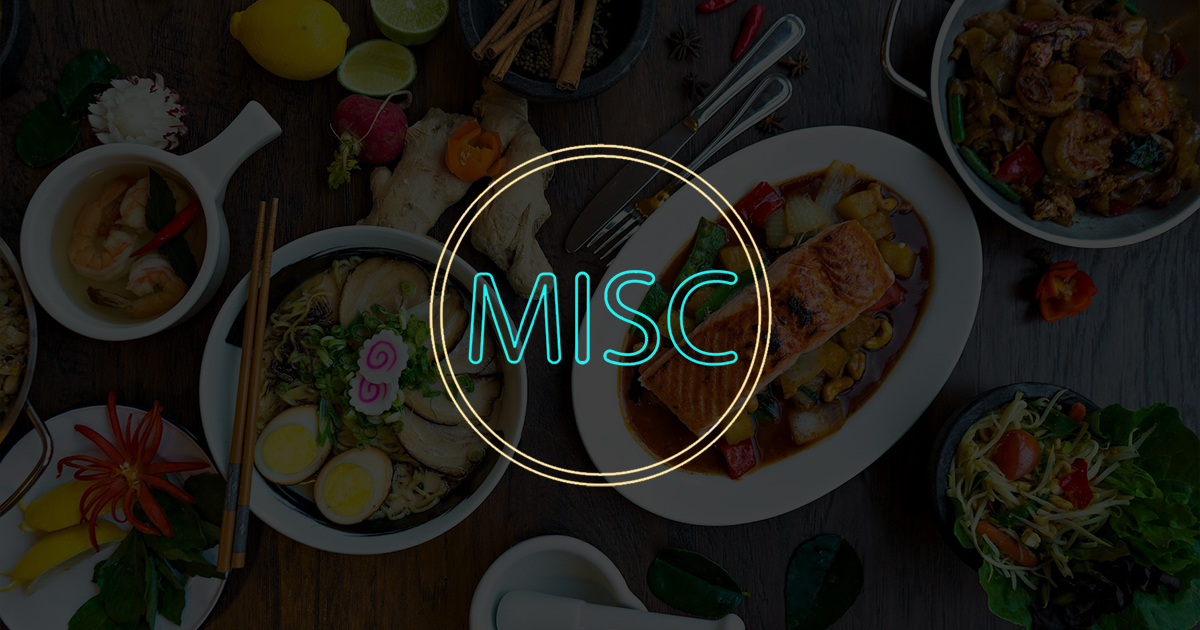
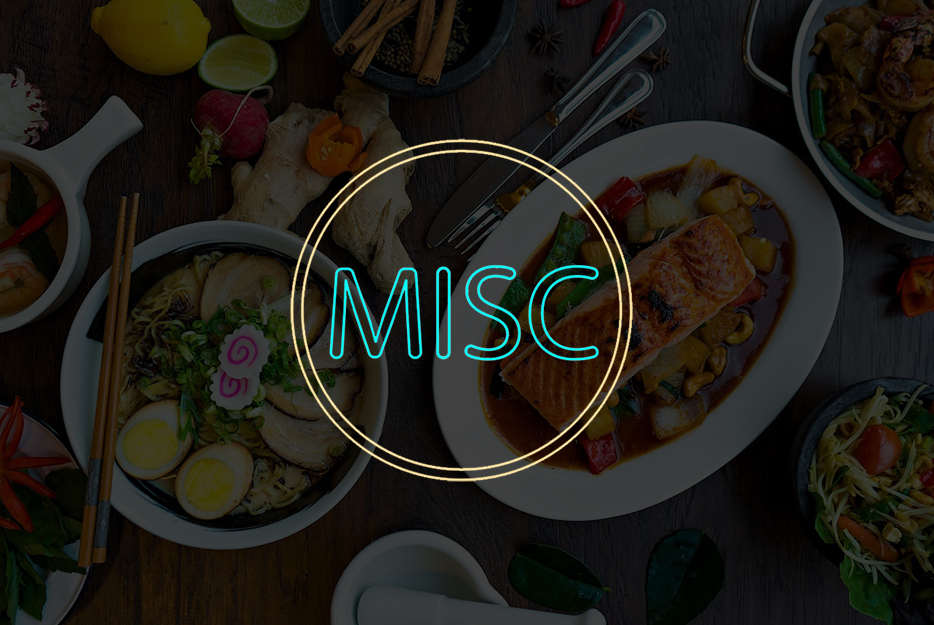
updated pagecards header

diff --git a/src/components/PageCards/GraphicDesignPageCards.js b/src/components/PageCards/GraphicDesignPageCards.js
@@ -15,6 +15,7 @@ import graphicTwo from "../../images/PagecardImages/graphicTwo.webp";
 import graphicThree from "../../images/PagecardImages/graphicThree.webp";
 import graphicFour from "../../images/PagecardImages/graphicFour.webp";
 import graphicFive from "../../images/PagecardImages/graphicFive.webp";
+import graphicSix from "../../images/PagecardImages/graphicSix.png";
 
 function GraphicDesignPageCards() {
   return (
@@ -22,8 +23,9 @@ function GraphicDesignPageCards() {
       <Box marginLeft={1}>
         <Box
           sx={{
-            background: "#0D4114",
-            color: "white",
+            background: `url(${graphicSix})`,
+            backgroundSize: "cover",
+            color: "primary",
             height: "200px",
             width: "95vw",
             borderRadius: "10px",
@@ -38,10 +40,11 @@ function GraphicDesignPageCards() {
             variant="h4"
             paddingTop={3}
             fontFamily={"Nunito"}
+            fontWeight="bold"
           >
             Graphics & Design
           </Typography>
-          <Typography align="center" fontFamily={"Nunito"}>
+          <Typography align="center" fontFamily={"Nunito"} fontWeight="bold">
             Design to make you standout
             <br />
             <br />
@@ -195,6 +198,7 @@ function GraphicDesignPageCards() {
               sx={{
                 background: `url(${graphicThree})`,
                 backgroundSize: "cover",
+
                 width: 300,
                 height: 200,
               }}

diff --git a/src/components/PageCards/WritingAndTranslationPageCards.js b/src/components/PageCards/WritingAndTranslationPageCards.js
@@ -12,14 +12,16 @@ import FilterIcon from "@mui/icons-material/Filter";
 import writingOne from "../../images/PagecardImages/writingOne.webp";
 import writingTwo from "../../images/PagecardImages/writingTwo.webp";
 import writingThree from "../../images/PagecardImages/writingThree.webp";
+import writingFour from "../../images/PagecardImages/writingFour.png";
 
 function PageCards() {
   return (
     <Box marginLeft={1}>
       <Box
         sx={{
-          background: "#530326",
-          color: "white",
+          background: `url(${writingFour})`,
+          backgroundSize: "cover",
+          color: "primary",
           height: "200px",
           width: "95vw",
           borderRadius: "10px",
@@ -34,11 +36,12 @@ function PageCards() {
           variant="h4"
           paddingTop={3}
           fontFamily={"Nunito"}
+          fontWeight="bold"
         >
           Writing & Translation
         </Typography>
-        <Typography align="center" fontFamily={"Nunito"}>
-          Get your words across-in ant language
+        <Typography align="center" fontFamily={"Nunito"} fontWeight="bold">
+          Get your words across-in any language
           <br />
           <br />
           <Button style={{ margin: "auto" }} variant="contained">

diff --git a/src/components/PageCards/PhotographyPageCards.js b/src/components/PageCards/PhotographyPageCards.js
@@ -12,13 +12,14 @@ import FilterIcon from "@mui/icons-material/Filter";
 import photographyOne from "../../images/PagecardImages/photographyOne.jpg";
 import photographyTwo from "../../images/PagecardImages/photographyTwo.webp";
 import photographyThree from "../../images/PagecardImages/photographyThree.jpg";
+import photographyFour from "../../images/PagecardImages/photographyFour.webp";
 
 function PageCards() {
   return (
     <Box marginLeft={1}>
       <Box
         sx={{
-          background: "#530326",
+          background: `url(${photographyFour})`,
           color: "white",
           height: "200px",
           width: "95vw",
@@ -34,10 +35,11 @@ function PageCards() {
           variant="h4"
           paddingTop={3}
           fontFamily={"Nunito"}
+          fontWeight="bold"
         >
           Photography & Video
         </Typography>
-        <Typography align="center" fontFamily={"Nunito"}>
+        <Typography align="center" fontFamily={"Nunito"} fontWeight="bold">
           Bring your story to life with creative videos
           <br />
           <br />

diff --git a/src/components/PageCards/WebbyCards.js b/src/components/PageCards/WebbyCards.js
@@ -27,12 +27,13 @@ import AvatarGroup from "@mui/material/AvatarGroup";
 import Rating from "@mui/material/Rating";
 import FavoriteIcon from "@material-ui/icons/Favorite";
 import Badge from "@mui/material/Badge";
+import webdevOne from "../../images/PagecardImages/webdevOne.webp";
 const WebbyCards = (props) => {
   return (
     <div>
       <Box
         sx={{
-          background: "#0D4114",
+          background: `url(${webdevOne})`,
           color: "white",
           height: "200px",
           width: "95vw",
@@ -48,10 +49,11 @@ const WebbyCards = (props) => {
           variant="h4"
           paddingTop={3}
           fontFamily={"Nunito"}
+          fontWeight="bold"
         >
           Web Development
         </Typography>
-        <Typography align="center" fontFamily={"Nunito"}>
+        <Typography align="center" fontFamily={"Nunito"} fontWeight="bold">
           Need your own website? We've got you covered
           <br />
           <br />

diff --git a/src/components/PageCards/FoodServicesPageCards.js b/src/components/PageCards/FoodServicesPageCards.js
@@ -5,13 +5,14 @@ import { Typography, Box, Stack, Card, Button } from "@mui/material";
 import foodOne from "../../images/PagecardImages/foodOne.webp";
 import foodTwo from "../../images/PagecardImages/foodTwo.jpeg";
 import foodThree from "../../images/PagecardImages/foodThree.jpg";
+import foodFour from "../../images/PagecardImages/foodFour.jpg";
 
 function FoodServicesPageCards() {
   return (
     <Box>
       <Box
         sx={{
-          background: "#0D4114",
+          background: `url(${foodFour})`,
           color: "white",
           height: "200px",
           width: "95vw",

diff --git a/src/components/Footer/FooterMain.js b/src/components/Footer/FooterMain.js
@@ -13,7 +13,6 @@ export default function Footer() {
         py={{ xs: 1, sm: 3 }}
         bgcolor="text.secondary"
         color="white"
-        marginTop={8}
       >
         <Container maxWidth="lg">
           <Grid container spacing={5}>

diff --git a/src/components/AboutUs/BoxOne.js b/src/components/AboutUs/BoxOne.js
@@ -6,7 +6,7 @@ const BoxOne = () => {
     <Box>
       {/* FIRST BOX */}
       <Box
-        bgcolor="#F8F8FF"
+        bgcolor="#F5F5F5"
         sx={{
           color: "primary",
           height: "75vh",
